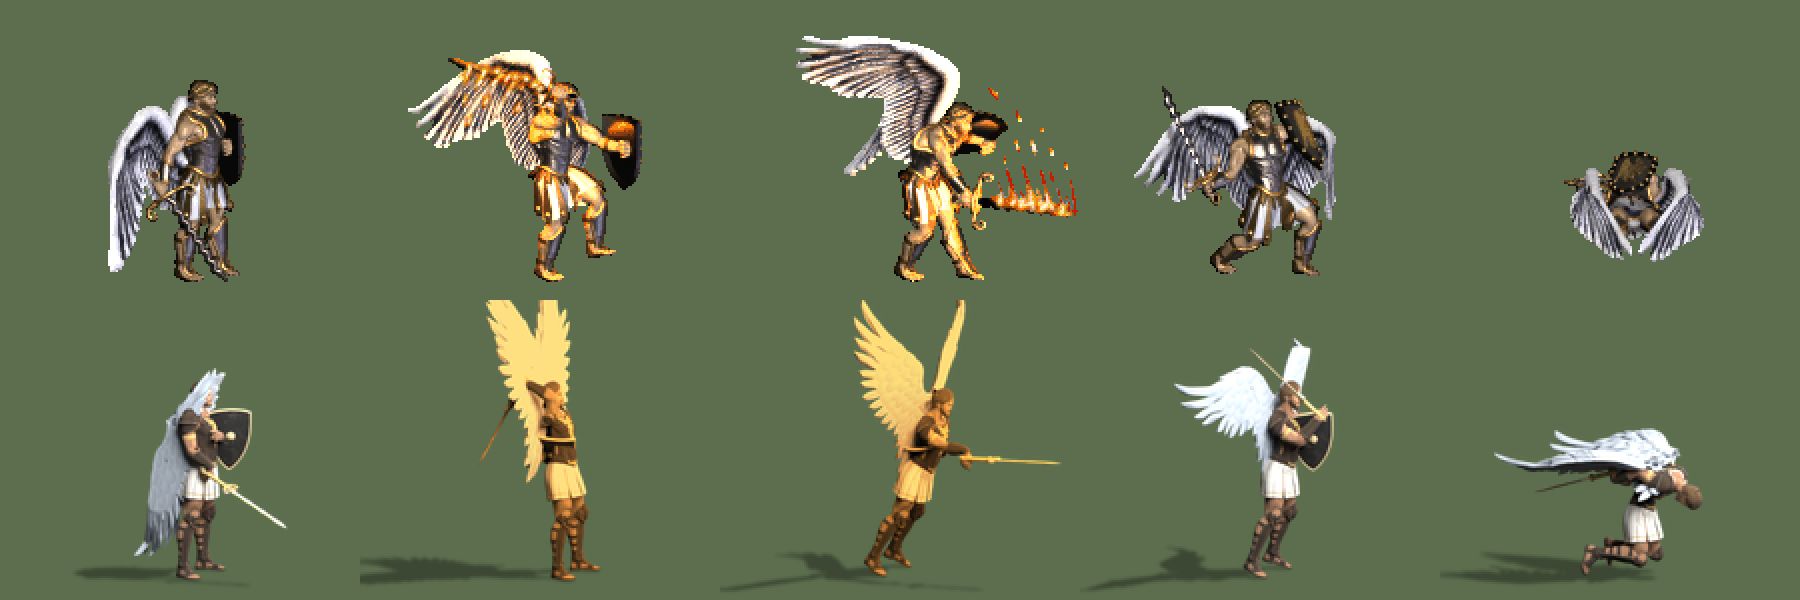
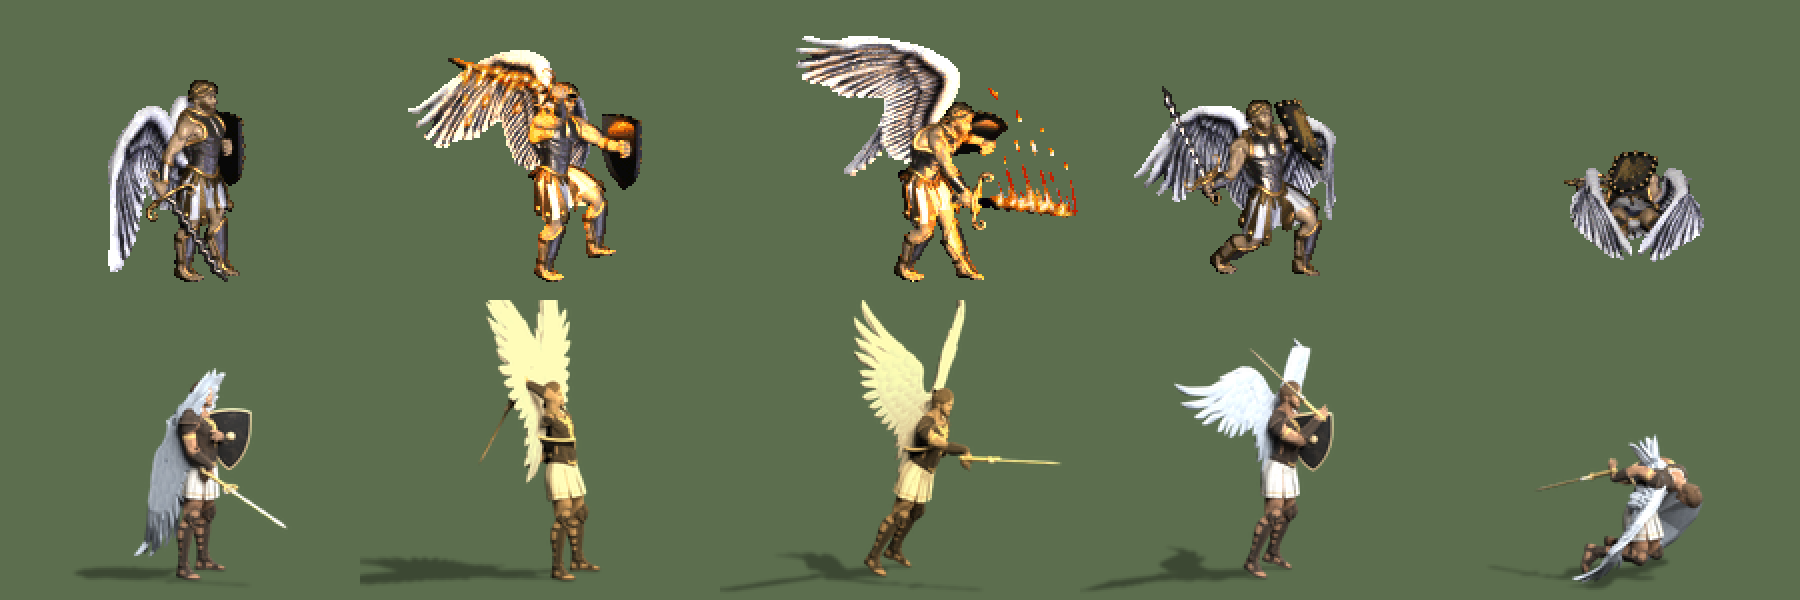
Castle top tier: battle screenshot, barding hem, wing deaths, Royal Griffin palette, Pikeman death pike
All four top-tier units loaded in one test battle. Champion hem, angel
death wings and archangel glow fixed (mod 0.22.0-0.22.2); Royal Griffin
recoloured to the original's silver/brown (0.22.3); Pikeman's pike now
falls with the body (0.22.4). Figures rebuilt from installed sprites.

diff --git a/content/posts/castle-halberdier-bootstrap.md b/content/posts/castle-halberdier-bootstrap.md
@@ -2788,7 +2788,7 @@ All fourteen models were generated from separate reviewed concepts and then chec
 | Unit | reviewed state |
 | --- | --- |
 | Halberdier | 1×/2× test package installed: 11 groups /63 frames with geometry shadows; native battle read 38 body frames in eight groups. Grip, shoulder cloth, death and transitions remain under review |
-| Pikeman | New silver-armor, blue-sleeve body and 24-bone rig generated; resting and elbow-probe renders completed. Fingers, pike, full actions and integration remain unfinished. Old-body thrust research preserved. |
+| Pikeman | New silver-armor, blue-sleeve body and 24-bone rig generated; resting and elbow-probe renders completed. Fingers, pike, full actions and integration remain unfinished. Old-body thrust research preserved.<br>2026-09-26: the upright pike in the 0.14.1 draft's death is fixed (0.22.4). See [Castle cavalry and angels](/posts/castle-cavalry-angels/). |
 | Archer | Installed in private test mod 0.11.0: 16 active groups and 96 frames with body, shadow and outline layers. The test battle loaded 43 body images across six groups. Full visual review, fingers, transitions and unobserved native actions remain open. |
 | Griffin | <s>Flight-specific mesh has offline flight, three melee directions, hit and defence trials; death13 rejected, full layered export and integration unfinished</s><br><s>2026-09-22: the alternate model has 15 bones, 13 offline clips and 85 draft frames, with revised corpse contact. Claws, wing roots and native fidelity remain unfinished; not installed. See [animation and ground contact](#griffin-binding).</s><br>2026-09-22: installed as private test 0.16.0, thirteen clips and 85 frames at 1×/2×. New models seen in battle; first log loaded nine groups and 62 2× body frames. Full motion and appearance remain unaccepted. See [battle test](#griffin-binding). |
 | Swordsman | Thirteen groups and 76 frames installed at 1×/2×; a test battle read 45 distinct 2× body frames across nine groups; offline holding crop is centred, with native visual and transition review pending |
@@ -2796,7 +2796,7 @@ All fourteen models were generated from separate reviewed concepts and then chec
 | Cavalier | <s>Separate rider, horse and lance have a melee draft; grip, full horse attack and original cadence unresolved, not installed</s><br>2026-09-26: 13 groups, 81 frames installed as 1×/2× local test 0.17.1, with a new death and the original's left-side view. See [Castle cavalry and angels](/posts/castle-cavalry-angels/). |
 | Angel | <s>Meshy humanoid rig, four local wing bones; 8-frame holding and 7-frame flight review accepted; <s>first sword rebind leaves a second vertical rest weapon and is rejected</s>; separate Meshy sword passes static review, but the matching unarmed-body candidate has perforated wings and is rejected</s><br>2026-09-26: the old model was off-likeness and was rebuilt from a new concept; 13 groups, 94 frames installed (0.18.0; 0.18.1 with rebuilt wings, 26 September). See [Castle cavalry and angels](/posts/castle-cavalry-angels/). |
 | Marksman | Installed 1×/2× test package has 16 active groups /97 frames; combined native logs read 87 body images in 15 groups, with the prone death revision installed. Defence coverage, fingers and action transitions unfinished |
-| Royal Griffin | <s>New flight-specific Meshy mesh has flight, front pounce, hit and defence trials; directional attacks, death, full layers and integration unfinished</s><br>2026-09-22 correction: the 13-clip, 85-frame draft is installed as private test 0.15.0. Mod startup loading was verified; battle behavior, wing intersections and appearance remain unaccepted. |
+| Royal Griffin | <s>New flight-specific Meshy mesh has flight, front pounce, hit and defence trials; directional attacks, death, full layers and integration unfinished</s><br>2026-09-22 correction: the 13-clip, 85-frame draft is installed as private test 0.15.0. Mod startup loading was verified; battle behavior, wing intersections and appearance remain unaccepted.<br>2026-09-26: palette corrected to the original's silver-grey feathers and brown lion body. See [Castle cavalry and angels](/posts/castle-cavalry-angels/). |
 | Crusader | Private 0.13.0 test installed: thirteen groups, 76 frames; armor/shield proportions and front-attack/hit revisions. Native likeness, garments, death and transitions remain unfinished. |
 | Zealot | Mantle revision 638 installed: 18 groups, 150 slots, 1×/2×. New native logs read 113 body images across 14 groups and three projectile directions. Defence, three special groups and visual acceptance remain unfinished |
 | Champion | <s>Mounted gait and skin-weight repair remain experimental; version26 rejected, with local joint deformation and original gait still unresolved in version25; not installed</s><br>2026-09-26: now uses the Cavalier's rig and motion with plume, eagle shield and horse armour; 13 groups, 81 frames installed (0.20.0). See [Castle cavalry and angels](/posts/castle-cavalry-angels/). |

diff --git a/content/posts/castle-cavalry-angels.md b/content/posts/castle-cavalry-angels.md
@@ -71,17 +71,37 @@ The Archangel uses the same scripts, with a bronze cuirass, white skirt, wavy sw
 
 The Angels' DEFs contain three shooting groups. Neither unit shoots, so those groups reuse the melee attack frames.
 
+## Battle screenshot and a round of fixes (26 September)
+
+All four units loaded their new sprites in one test battle: the log references the Cavalier 213 times, the Champion 204, the Angel 171 and the Archangel 201. Below is a game screenshot.
+
+![In battle: the Angel flying, the Archangel standing with its shield, the Cavalier and Champion on the right](/images/castle-top-tier-01/battle.jpg)
+
+The same round fixed several things:
+
+- The Champion's barding has its white hem. The blue cloth is found from the horse texture, each panel gets a band along its lowest edge, and the band alternates between two heights to make the crenellation.
+- In the last death frames the Angel's and Archangel's wings now hang to the ground on both sides instead of spreading backwards.
+- The Archangel's attack glow is a bronze gold instead of orange, and weaker.
+
+Comparing all fourteen Castle units against the originals turned up two more clear problems. The Royal Griffin was nearly white all over, where the original has silver-grey wings and a brown lion body. The fix is a colour correction on the packaged frames: unsaturated feathers go to silver-grey and the warm lion body goes to brown, across 170 body frames, without re-rendering.
+
+![Original (top), before (middle), after (bottom)](/images/castle-top-tier-01/royal-griffin-palette.png)
+
+When the Pikeman died, the man fell and the pike stayed standing in place. Now the pike tips over at frame 3 and lies flat under the body from frame 4; the first two frames overlap the previous render at 0.99.
+
+![Original (top), before (middle) and after (bottom), five death frames](/images/castle-top-tier-01/pikeman-death.png)
+
 ## What is installed
 
 | Unit | Version | Frames | PNGs |
 | --- | --- | --- | --- |
 | Cavalier | 0.17.1 | 81 | 342 |
-| Angel | 0.18.1 | 94 | 412 |
-| Archangel | 0.19.1 | 91 | 394 |
-| Champion | 0.20.0 | 81 | 342 |
+| Angel | 0.22.1 | 94 | 412 |
+| Archangel | 0.22.2 | 91 | 394 |
+| Champion | 0.22.0 | 81 | 342 |
 
-Frame counts and canvases come from each unit's original DEF, and the packaging check reports 0 errors and 0 warnings. With the new wings the mod is at 0.21.0. Every install backs up the files it replaces and has a checked rollback.
+Frame counts and canvases come from each unit's original DEF, and the packaging check reports 0 errors and 0 warnings. Versions are the whole mod's version at each install; it is now at 0.22.4. Every install backs up the files it replaces and has a checked rollback.
 
-The 0.17.0 Cavalier loaded in a real battle, but that was before the camera fix. The four new versions have no battle screenshots yet: the test client hung during start-up this time.
+<s>The 0.17.0 Cavalier loaded in a real battle, but that was before the camera fix. The four new versions have no battle screenshots yet: the test client hung during start-up this time.</s> A battle screenshot was added on 26 September; see the previous section.
 
-Known issues: the Angel's wings open wider than the original's in the last death frame; the Archangel's glow is too orange overall; the Cavalier's idle lance is held level where the original holds it upright; the Champion's barding lacks the white hem.
+Known issues: the Cavalier's idle lance is held level where the original holds it upright; the Royal Griffin's talons are still brown where the original's are gold.

diff --git a/content/posts/castle-cavalry-angels.zh.md b/content/posts/castle-cavalry-angels.zh.md
@@ -71,17 +71,37 @@ tags: ["vcmi", "ai", "graphics", "blender", "meshy", "flux", "castle"]
 
 天使的 DEF 里有三组射击动作。天使不会射击，这三组直接复用近战攻击的帧。
 
+## 实战截图和一轮修正（9 月 26 日）
+
+四个兵种在同一场测试战斗里都读到了新素材：日志里骑士 213 次、骑士统领 204 次、天使 171 次、大天使 201 次。下图是游戏截图。
+
+![实战截图：天使在飞，大天使持盾站着，右边是骑士和骑士统领](/images/castle-top-tier-01/battle.jpg)
+
+同一轮还改了几处：
+
+- 骑士统领的马衣下沿加了白边。颜色从马贴图里的蓝布判断，每块布只取最下面一条，高度一高一低，做出城垛纹。
+- 天使和大天使倒地最后几帧，翅膀改成从两侧垂到地上，不再向后张开。
+- 大天使攻击时的发光从橙色改成偏铜的金色，强度也调低了。
+
+把城堡十四个兵种和原版放在一起对了一遍，又找到两处明显的问题。皇家狮鹫整只偏白，原版是银灰的翅膀和棕色的狮身。这次在打包好的图上直接调色：不饱和的羽毛压成银灰，暖色的狮身压成棕色，一共 170 张身体帧，没有重新渲染。
+
+![原版（上）、调色前（中）、调色后（下）](/images/castle-top-tier-01/royal-griffin-palette.png)
+
+枪兵倒地时，人倒下了，长枪还竖着插在原地。改成第 3 帧长枪往外倒，第 4 帧起平放在身体下面，前两帧和原来的渲染重合度 0.99。
+
+![原版（上）、修改前（中）、修改后（下）的五帧倒地](/images/castle-top-tier-01/pikeman-death.png)
+
 ## 安装情况
 
 | 兵种 | 版本 | 帧数 | PNG |
 | --- | --- | --- | --- |
 | 骑士 | 0.17.1 | 81 | 342 |
-| 天使 | 0.18.1 | 94 | 412 |
-| 大天使 | 0.19.1 | 91 | 394 |
-| 骑士统领 | 0.20.0 | 81 | 342 |
+| 天使 | 0.22.1 | 94 | 412 |
+| 大天使 | 0.22.2 | 91 | 394 |
+| 骑士统领 | 0.22.0 | 81 | 342 |
 
-帧数和画布都取自各自的原版 DEF，打包检查 0 错误、0 警告。换翅膀后 mod 版本为 0.21.0。每次安装都先备份原有文件，并检查过回退。
+帧数和画布都取自各自的原版 DEF，打包检查 0 错误、0 警告。版本号是安装时整个 mod 的版本，目前为 0.22.4。每次安装都先备份原有文件，并检查过回退。
 
-0.17.0 的骑士在实战里读到了新素材，但那是换视角之前的版本。四个兵种的新版本还没有实战截图：这次的测试客户端卡在了启动阶段。
+<s>0.17.0 的骑士在实战里读到了新素材，但那是换视角之前的版本。四个兵种的新版本还没有实战截图：这次的测试客户端卡在了启动阶段。</s> 9 月 26 日补了实战截图，见上一节。
 
-已知问题：天使倒地最后一帧翅膀比原版张得开；大天使的发光整体偏橙；骑士待机时骑枪是平端的，原版竖着拿；骑士统领的马衣缺白边。
+已知问题：骑士待机时骑枪是平端的，原版竖着拿；皇家狮鹫的爪子还是棕色，原版是金色。
